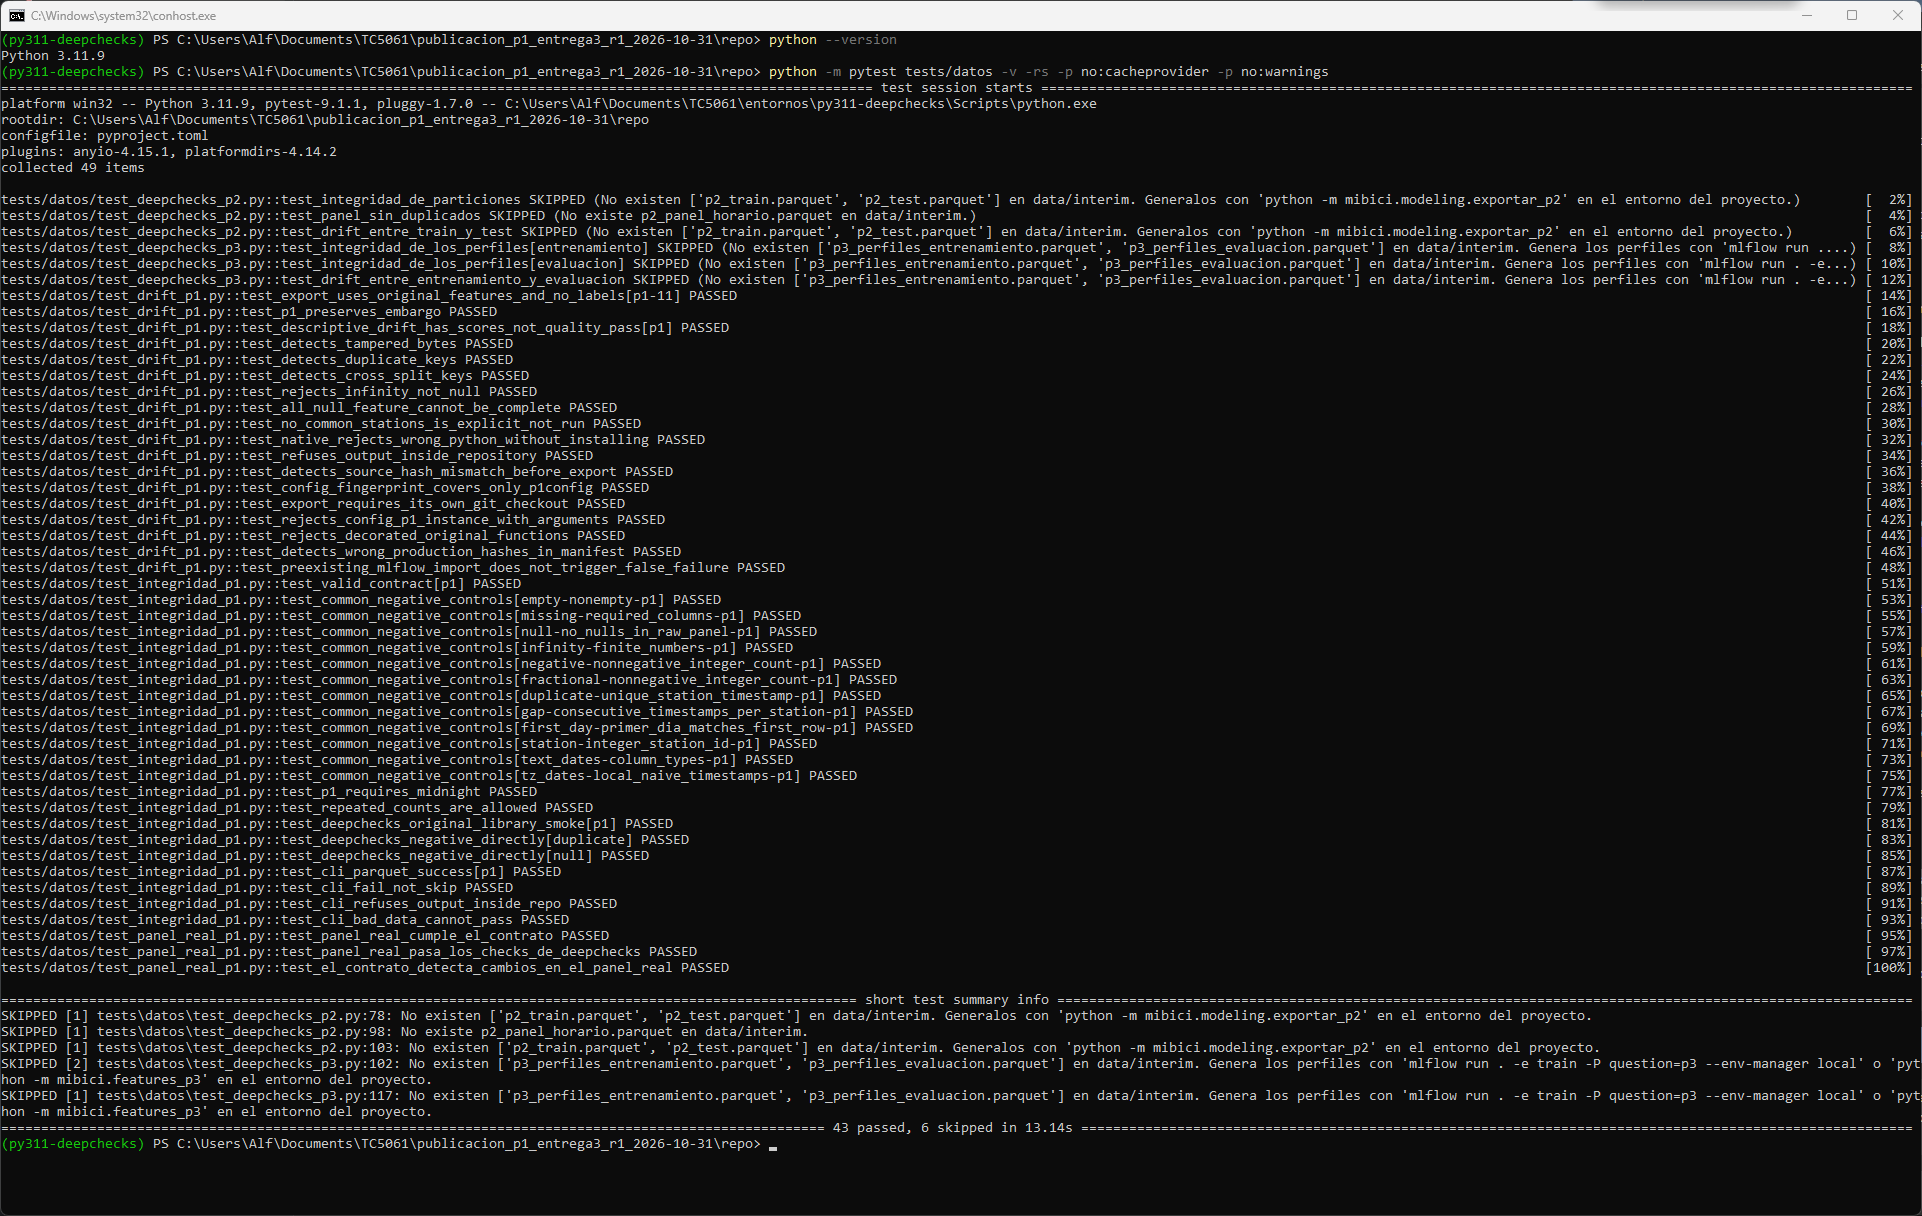
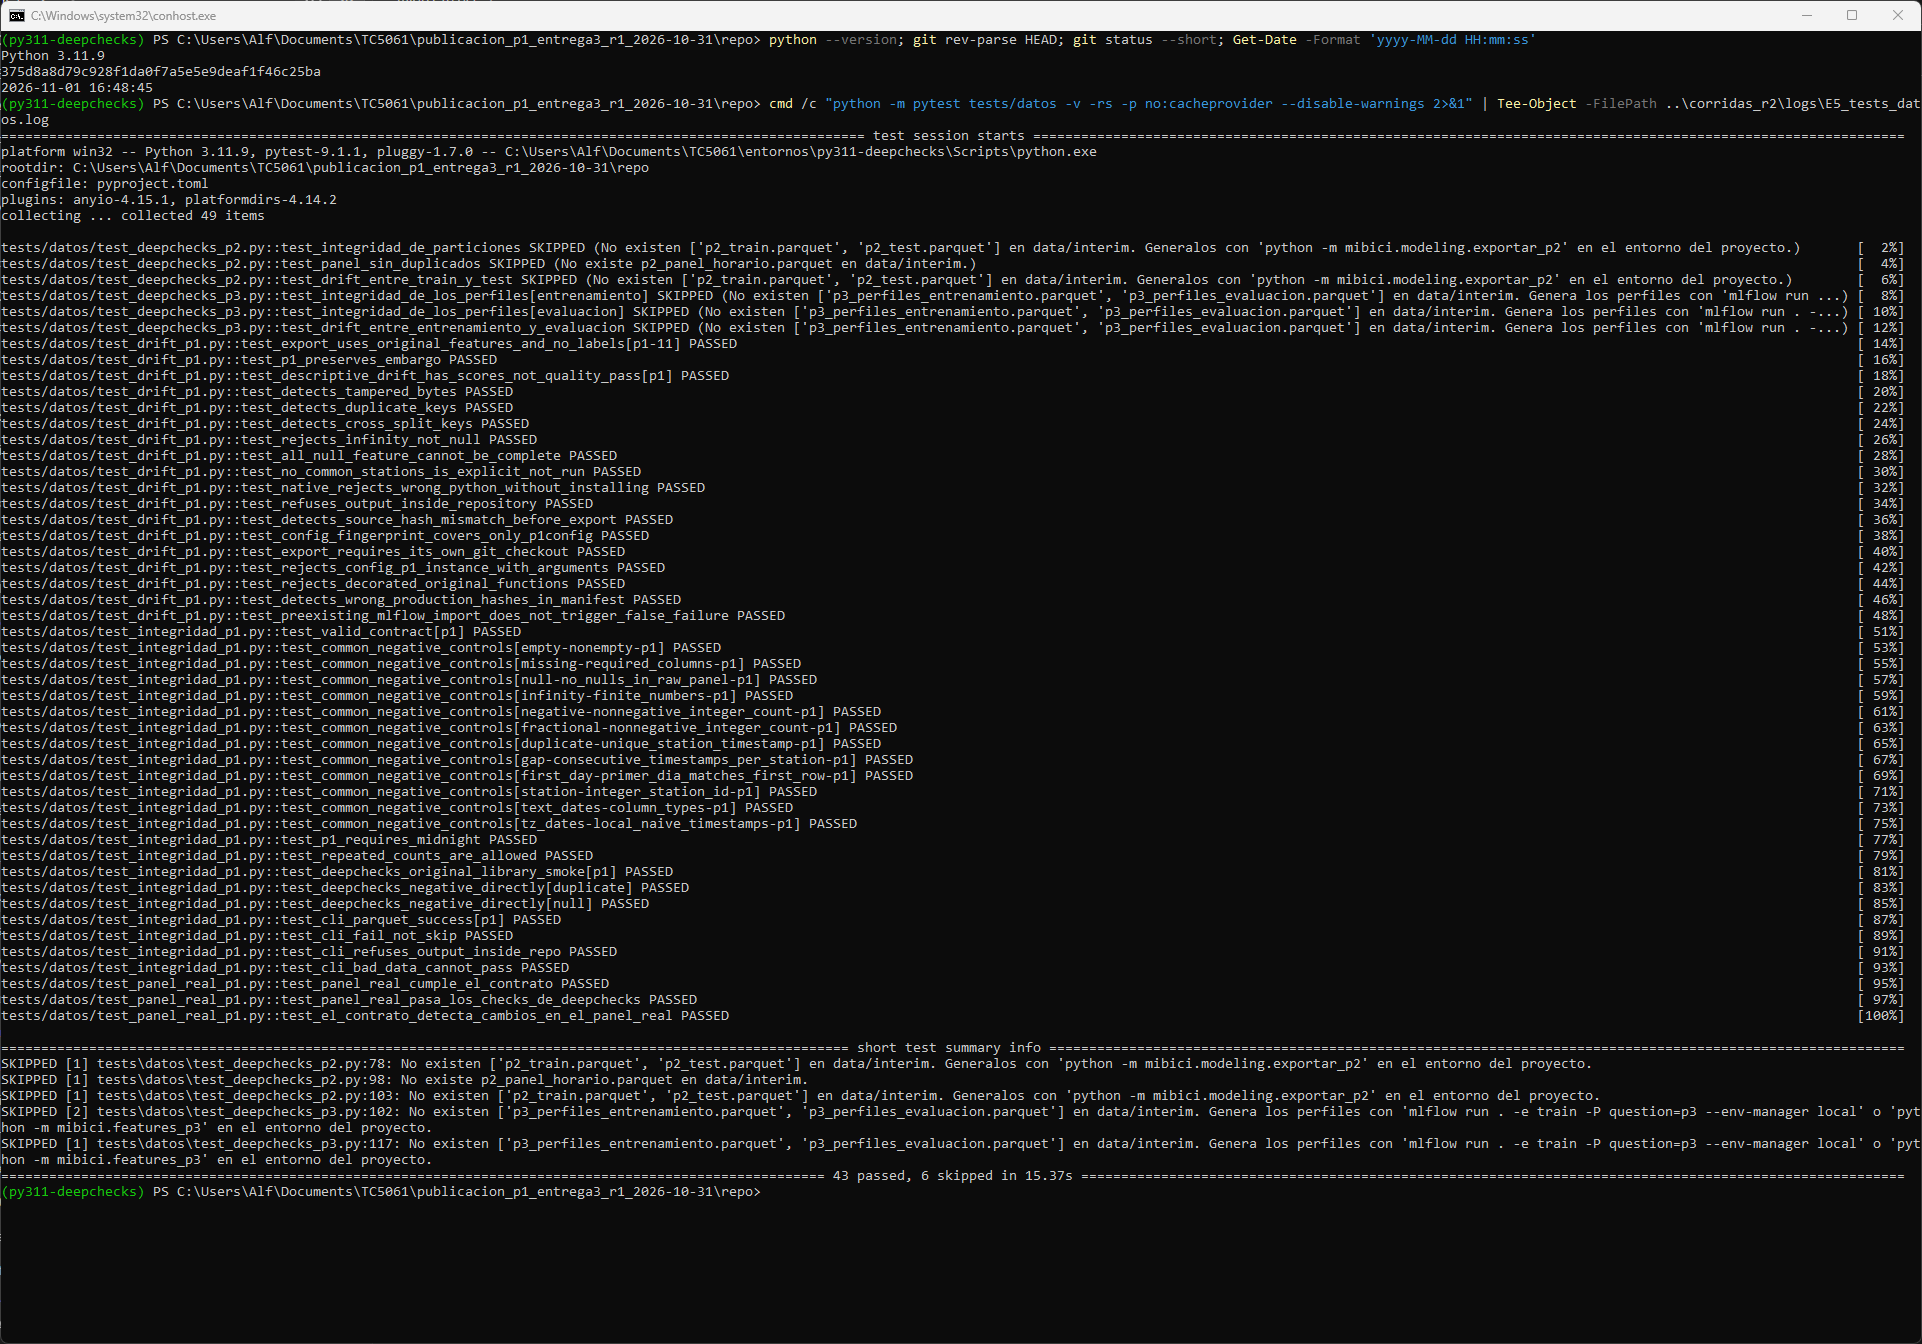
docs(p1): capturas y resultados de las corridas finales de pytest
Cada captura es de la misma ejecución cuya salida completa se guardó con
Tee-Object, sobre el commit 375d8a8. Documenta los tres casos del panel
real: válido, sin archivo y alterado, estos dos en clones temporales.

Changed region(s): [[0.0, 0.0, 1.0, 0.9688], [0.281, 0.9375, 0.3122, 0.9688]]

diff --git a/README.md b/README.md
@@ -186,18 +186,18 @@ Comandos, decisiones y límites en `docs/repetibilidad_p1.md`, `docs/validacion_
 | `tests/modeling/test_reproducibilidad_p1.py`: dos ajustes de cada candidata con la semilla de `CONFIG_P1` dan las mismas predicciones y el mismo MAE, sin modificar los datos de entrada y con el embargo D-2 | proyecto (Python 3.14) | panel sintético | 3 passed |
 | `python -m pytest` (suite completa) | proyecto (Python 3.14) | sintéticos | 239 passed, 5 skipped: los cinco módulos de `tests/datos` (los tres de P1 porque no es Python 3.11; los de P2 y P3 porque falta deepchecks) |
 | `tests/datos/test_integridad_p1.py` y `test_drift_p1.py`: contrato del panel, `PercentOfNulls` y `DataDuplicates`, exportación de variables y drift, con controles negativos | DeepChecks (Python 3.11) | paneles fabricados | 40 passed |
-| `tests/datos/test_panel_real_p1.py`: contrato, `PercentOfNulls` y `DataDuplicates` sobre todas las filas del panel real, sin modificarlo, y un control negativo sobre una copia | DeepChecks (Python 3.11) | `data/interim/p1_panel_diario.parquet` del 18 de octubre: 245,185 filas, 472 estaciones | 3 passed; con el panel alterado (una clave repetida), 2 failed; sin el archivo, 3 skipped |
-| `python -m pytest tests/datos -v` | DeepChecks (Python 3.11) | los anteriores | 43 passed, 6 skipped: las 3 de P2 y las 3 de P3, porque faltan sus tablas en `data/interim` |
+| `tests/datos/test_panel_real_p1.py`: contrato, `PercentOfNulls` y `DataDuplicates` sobre todas las filas del panel real, sin modificarlo, y un control negativo sobre una copia | DeepChecks (Python 3.11) | `data/interim/p1_panel_diario.parquet` del 18 de octubre: 245,185 filas, 472 estaciones (SHA256 `8f14faf9…`) | 3 passed. En dos clones temporales del repositorio: sin el archivo, 3 skipped; con una copia alterada (una clave repetida), 2 failed y 1 passed (el control negativo) |
+| `python -m pytest tests/datos -v` | DeepChecks (Python 3.11) | paneles fabricados (40 pruebas) y panel real (3) | 43 passed, 6 skipped: las 3 de P2 y las 3 de P3, porque faltan sus tablas en `data/interim` |
 | Integridad del panel real con el script (`scripts/p1/validar_panel_p1.py`) | DeepChecks (Python 3.11) | el mismo panel | PASS |
 | Exportación y drift reales (`exportar_features_p1.py` en el entorno del proyecto, `medir_drift_p1.py` en el de DeepChecks) | ambos | el mismo panel | 167,177 filas de entrenamiento y 62,426 de prueba, 2 días de separación; drift sobre una muestra determinista de 100,000 filas de entrenamiento (semilla 29) y la prueba completa: KS máximo `lag_28` = 0.073 con todas las estaciones y `media_28d` = 0.037 con las 370 presentes en ambos periodos; Cramér V máximo `festivo` = 0.053 y 0.054 |
 
-Las corridas de pytest son del 1 de noviembre de 2026 sobre esta rama. Las de los scripts con el panel real son del 31 de octubre, en el commit `3f12723`; lo que verifica el exportador no cambió desde entonces (la huella de `P1Config` y `CONFIG_P1` dentro de `config.py` y los hashes de `features.py` y `train_p1.py`), así que no se repitieron.
+Las corridas de pytest son del 1 de noviembre de 2026, sobre el commit `375d8a8` de esta rama; los commits posteriores sólo cambian documentación e imágenes. Las de los scripts con el panel real son del 31 de octubre, en el commit `3f12723`; lo que verifica el exportador no cambió desde entonces (la huella de `P1Config` y `CONFIG_P1` dentro de `config.py` y los hashes de `features.py` y `train_p1.py`), así que no se repitieron.
 
 Las pruebas con datos sintéticos o fabricados comprueban el código, no la calidad del panel real; ésta se revisa con `test_panel_real_p1.py` y con los scripts. El drift se mide y se reporta sin umbral de aprobación. Quedan sin prueba automática la exportación `native` (en el entorno del proyecto se omite `tests/datos`; la cubre la corrida con el panel real) y la búsqueda completa de hiperparámetros: la prueba de repetibilidad usa hiperparámetros pequeños fijos, y con la configuración de P1 los candidatos son deterministas, así que muestra repetibilidad y que la semilla llega al modelo, no que la semilla cambie el resultado.
 
 `test_panel_real_p1.py` revisa el panel real `data/interim/p1_panel_diario.parquet` cuando existe y se salta si falta; sus reportes van a la carpeta temporal de pytest, no a `reports/deepchecks/`. Los scripts de validación, exportación y drift de P1 están en el repositorio, en `scripts/p1/`; lo que generan (reportes HTML, resúmenes JSON y tablas exportadas) se guarda en la carpeta nueva que se indica con `--output`, que debe estar fuera del repositorio. Las pruebas que exportan variables registran el commit con git, así que requieren git y un checkout con su propio `.git` (si no, se saltan).
 
-Las capturas de pytest son capturas de pantalla de una consola de Windows durante la ejecución de cada comando sobre esta rama (1 de noviembre de 2026); las de DeepChecks son los reportes HTML del panel real.
+Cada captura de pytest es una captura de pantalla de la consola de Windows al terminar esa misma ejecución. La salida completa de cada corrida se guardó a la vez con `Tee-Object`, fuera del repositorio, y su duración es la que muestra la captura. Las capturas de DeepChecks son los reportes HTML del panel real.
 
 ![Prueba de repetibilidad de P1](reports/figures/p1_pruebas_repetibilidad.png)
 

diff --git a/docs/validacion_datos_p1.md b/docs/validacion_datos_p1.md
@@ -49,6 +49,18 @@ a `reports/deepchecks/`.
 "$PY311" -m pytest tests/datos/test_panel_real_p1.py -v -rs -p no:cacheprovider
 ```
 
+Resultados del 1 de noviembre de 2026 (commit `375d8a8`, Python 3.11.9, deepchecks 0.19.1):
+
+- Con el panel real (245,185 filas, 472 estaciones, del 1 de enero de 2025 al 30 de
[1 lines of base64/hex data omitted]
+  **3 passed**.
+- En un clon temporal del repositorio sin `data/`: **3 skipped**, con el motivo.
+- En otro clon temporal con una copia alterada del panel (una clave estación-fecha repetida,
+  245,186 filas): **2 failed** (el contrato y los checks de DeepChecks) y **1 passed** (el
+  control negativo).
+
+El panel original conservó su SHA256 antes y después de cada corrida.
+
 ## Exportación y drift
 
 `exportar_features_p1.py` verifica hashes normalizados CRLF/LF de `mibici/features.py`,

diff --git a/docs/repetibilidad_p1.md b/docs/repetibilidad_p1.md
@@ -47,7 +47,7 @@ Windows 11, entorno principal Python 3.14.8, desde la raíz del checkout:
   completa **239 passed, 4 skipped**. La cuarta omisión es `test_deepchecks_p2.py`, que
   agrega el #14 y también requiere el entorno de DeepChecks.
 - Sobre main `9426c50` con `tests/datos/test_panel_real_p1.py` (1 de noviembre de 2026,
-  commit `da24e44`): este test **3 passed**; suite completa **239 passed, 5 skipped**. La
+  commit `375d8a8`): este test **3 passed**; suite completa **239 passed, 5 skipped**. La
   quinta omisión es ese módulo nuevo, que también requiere el entorno de DeepChecks.
 
 `mibici.features` y `mibici.modeling.train_p1` se importaron desde el checkout probado.
